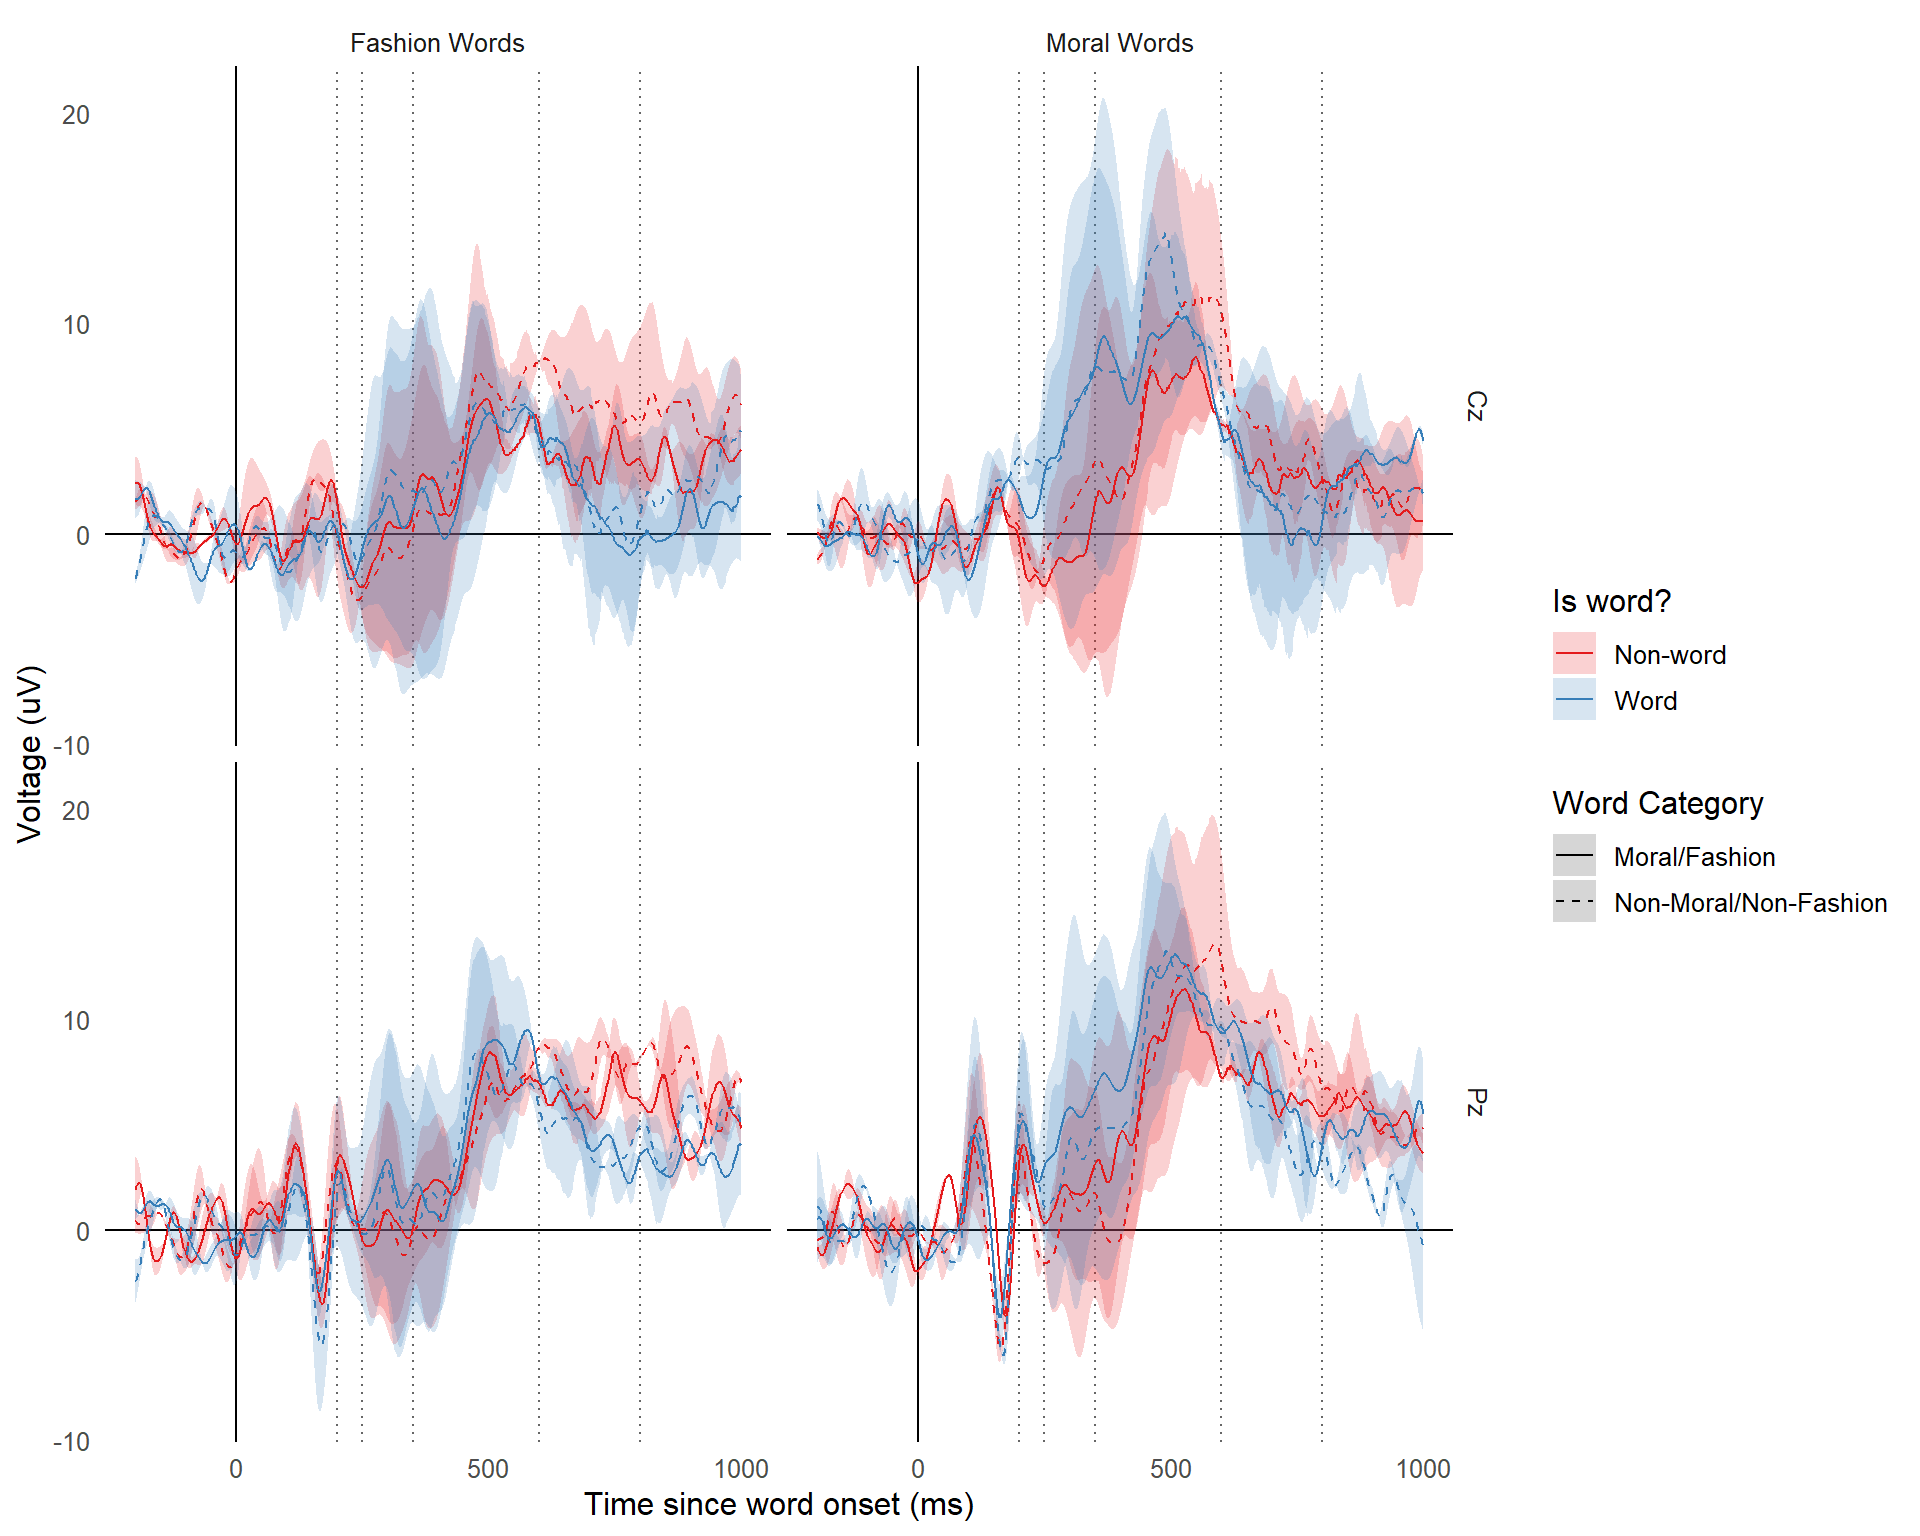
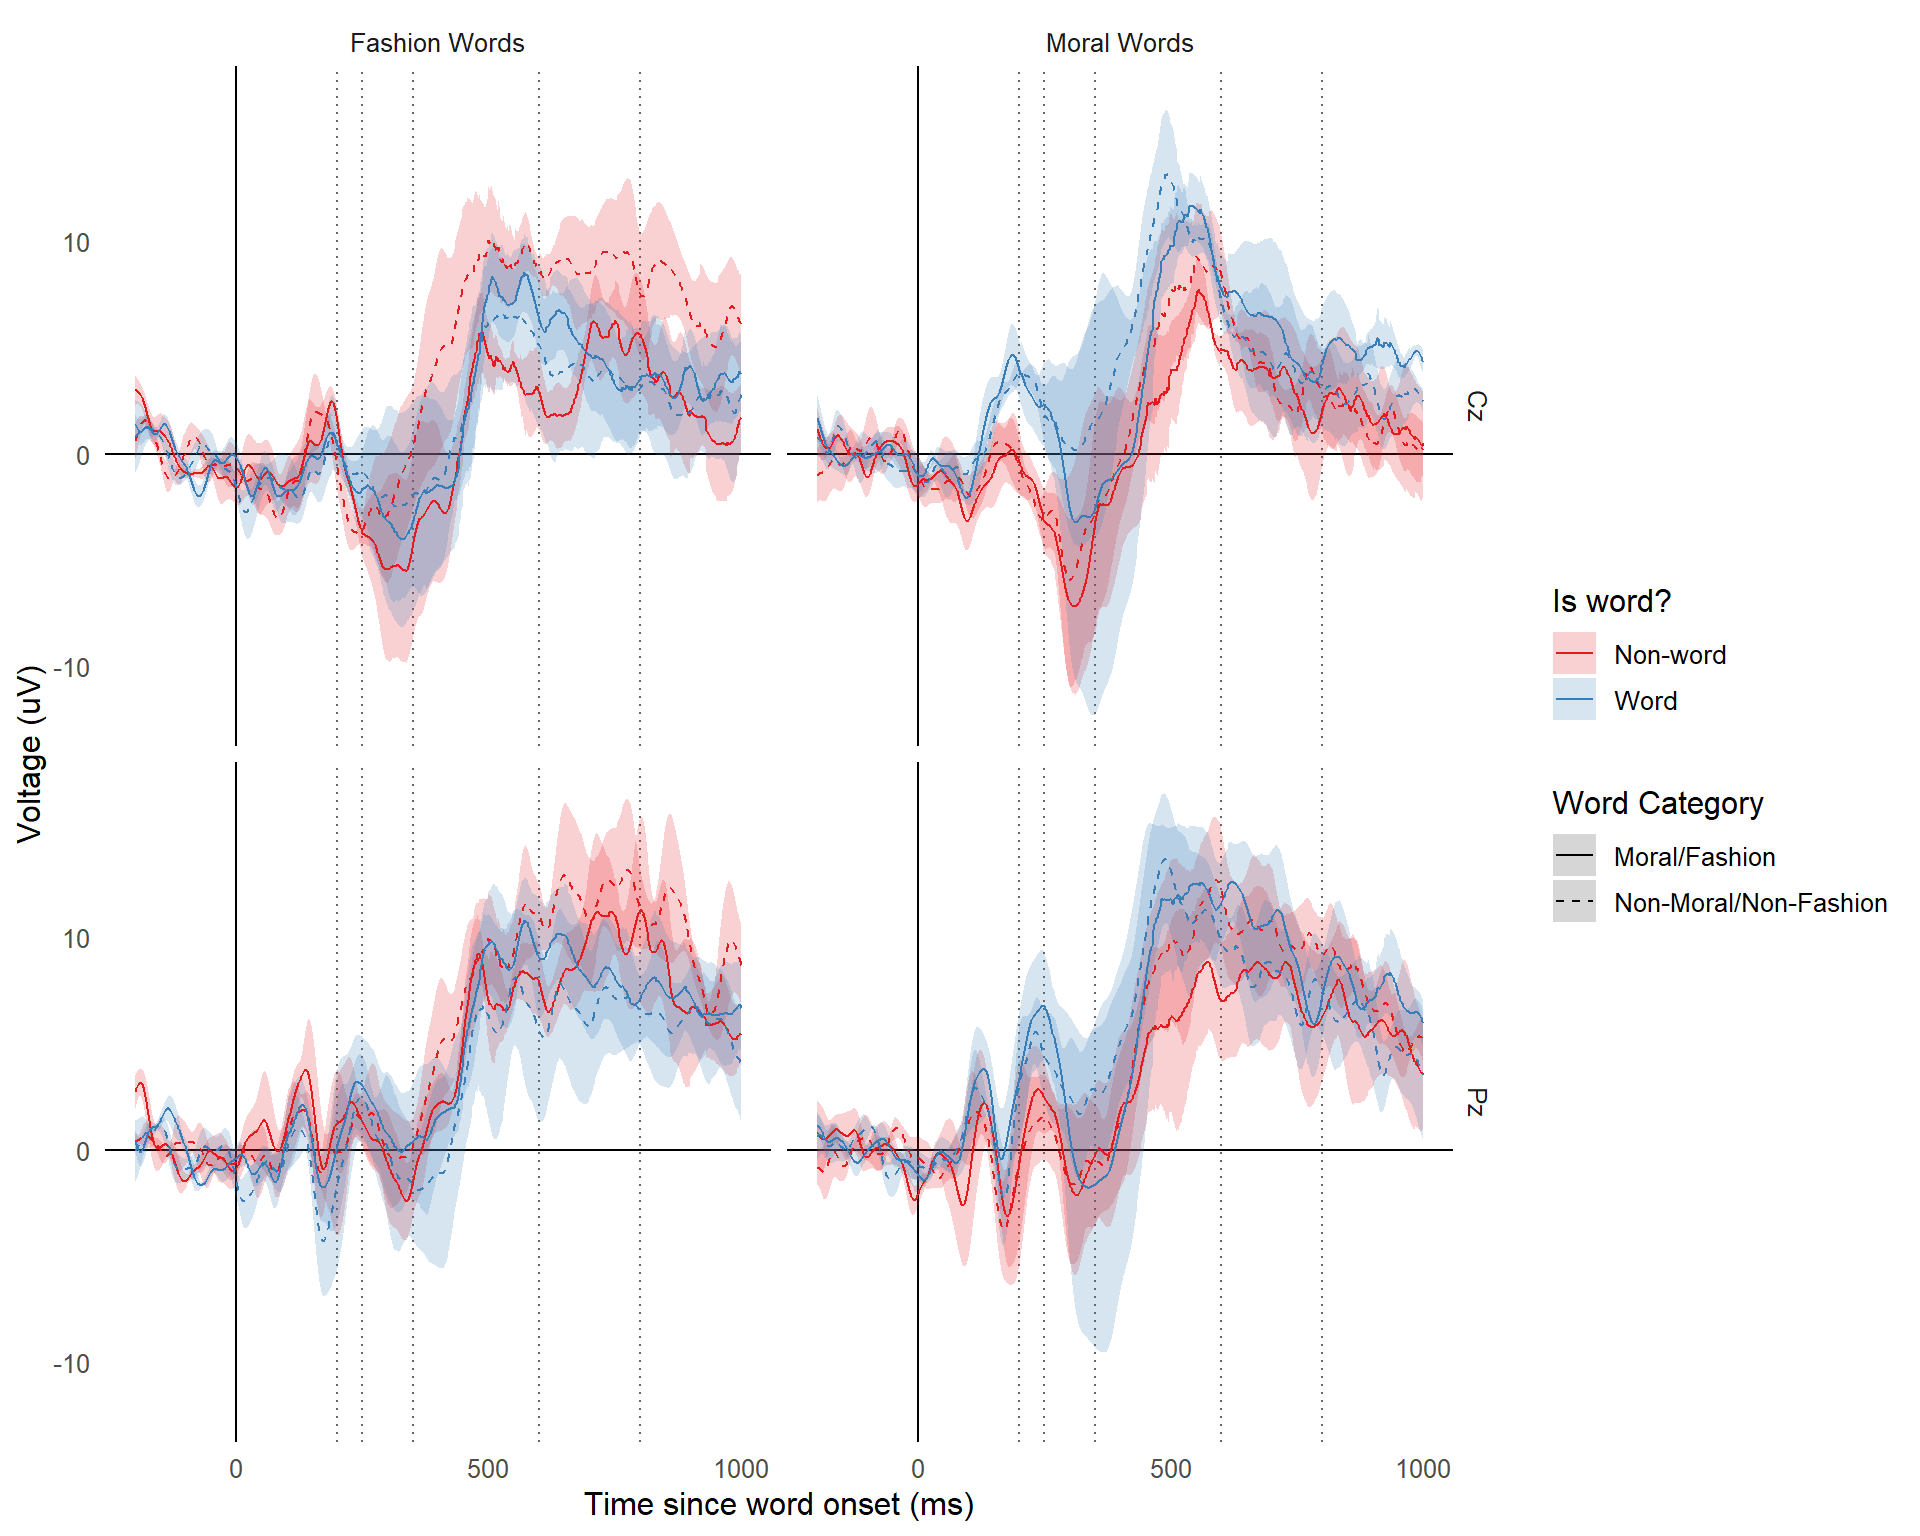
add current data for phase 2

Changed region(s): [[0.0625, 0.0625, 0.75, 0.4688], [0.0625, 0.5312, 0.75, 0.9062]]

diff --git a/manuscript.html b/manuscript.html
@@ -132,7 +132,7 @@ ul.task-list li input[type="checkbox"] {
 <h3 class="anchored" data-anchor-id="methods-1">Methods</h3>
 <section id="participants-1" class="level4">
 <h4 class="anchored" data-anchor-id="participants-1">Participants</h4>
-<p>3 subjects participated in the study. After applying the exclusion criteria, 2 subjects remain. 1 subjects were excluded for receiving fashion words twice due to a technical error, 0 subjects were excluded for having poor EEG recordings, 0 subjects were excluded for having a non-response rate greater than 50%, and 0 subjects were excluded for having a non-word response rate greater than 90%.</p>
+<p>5 subjects participated in the study. After applying the exclusion criteria, 4 subjects remain. 1 subjects were excluded for receiving fashion words twice due to a technical error, 0 subjects were excluded for having poor EEG recordings, 0 subjects were excluded for having a non-response rate greater than 50%, and 0 subjects were excluded for having a non-word response rate greater than 90%.</p>
 </section>
 </section>
 <section id="results-1" class="level3">
